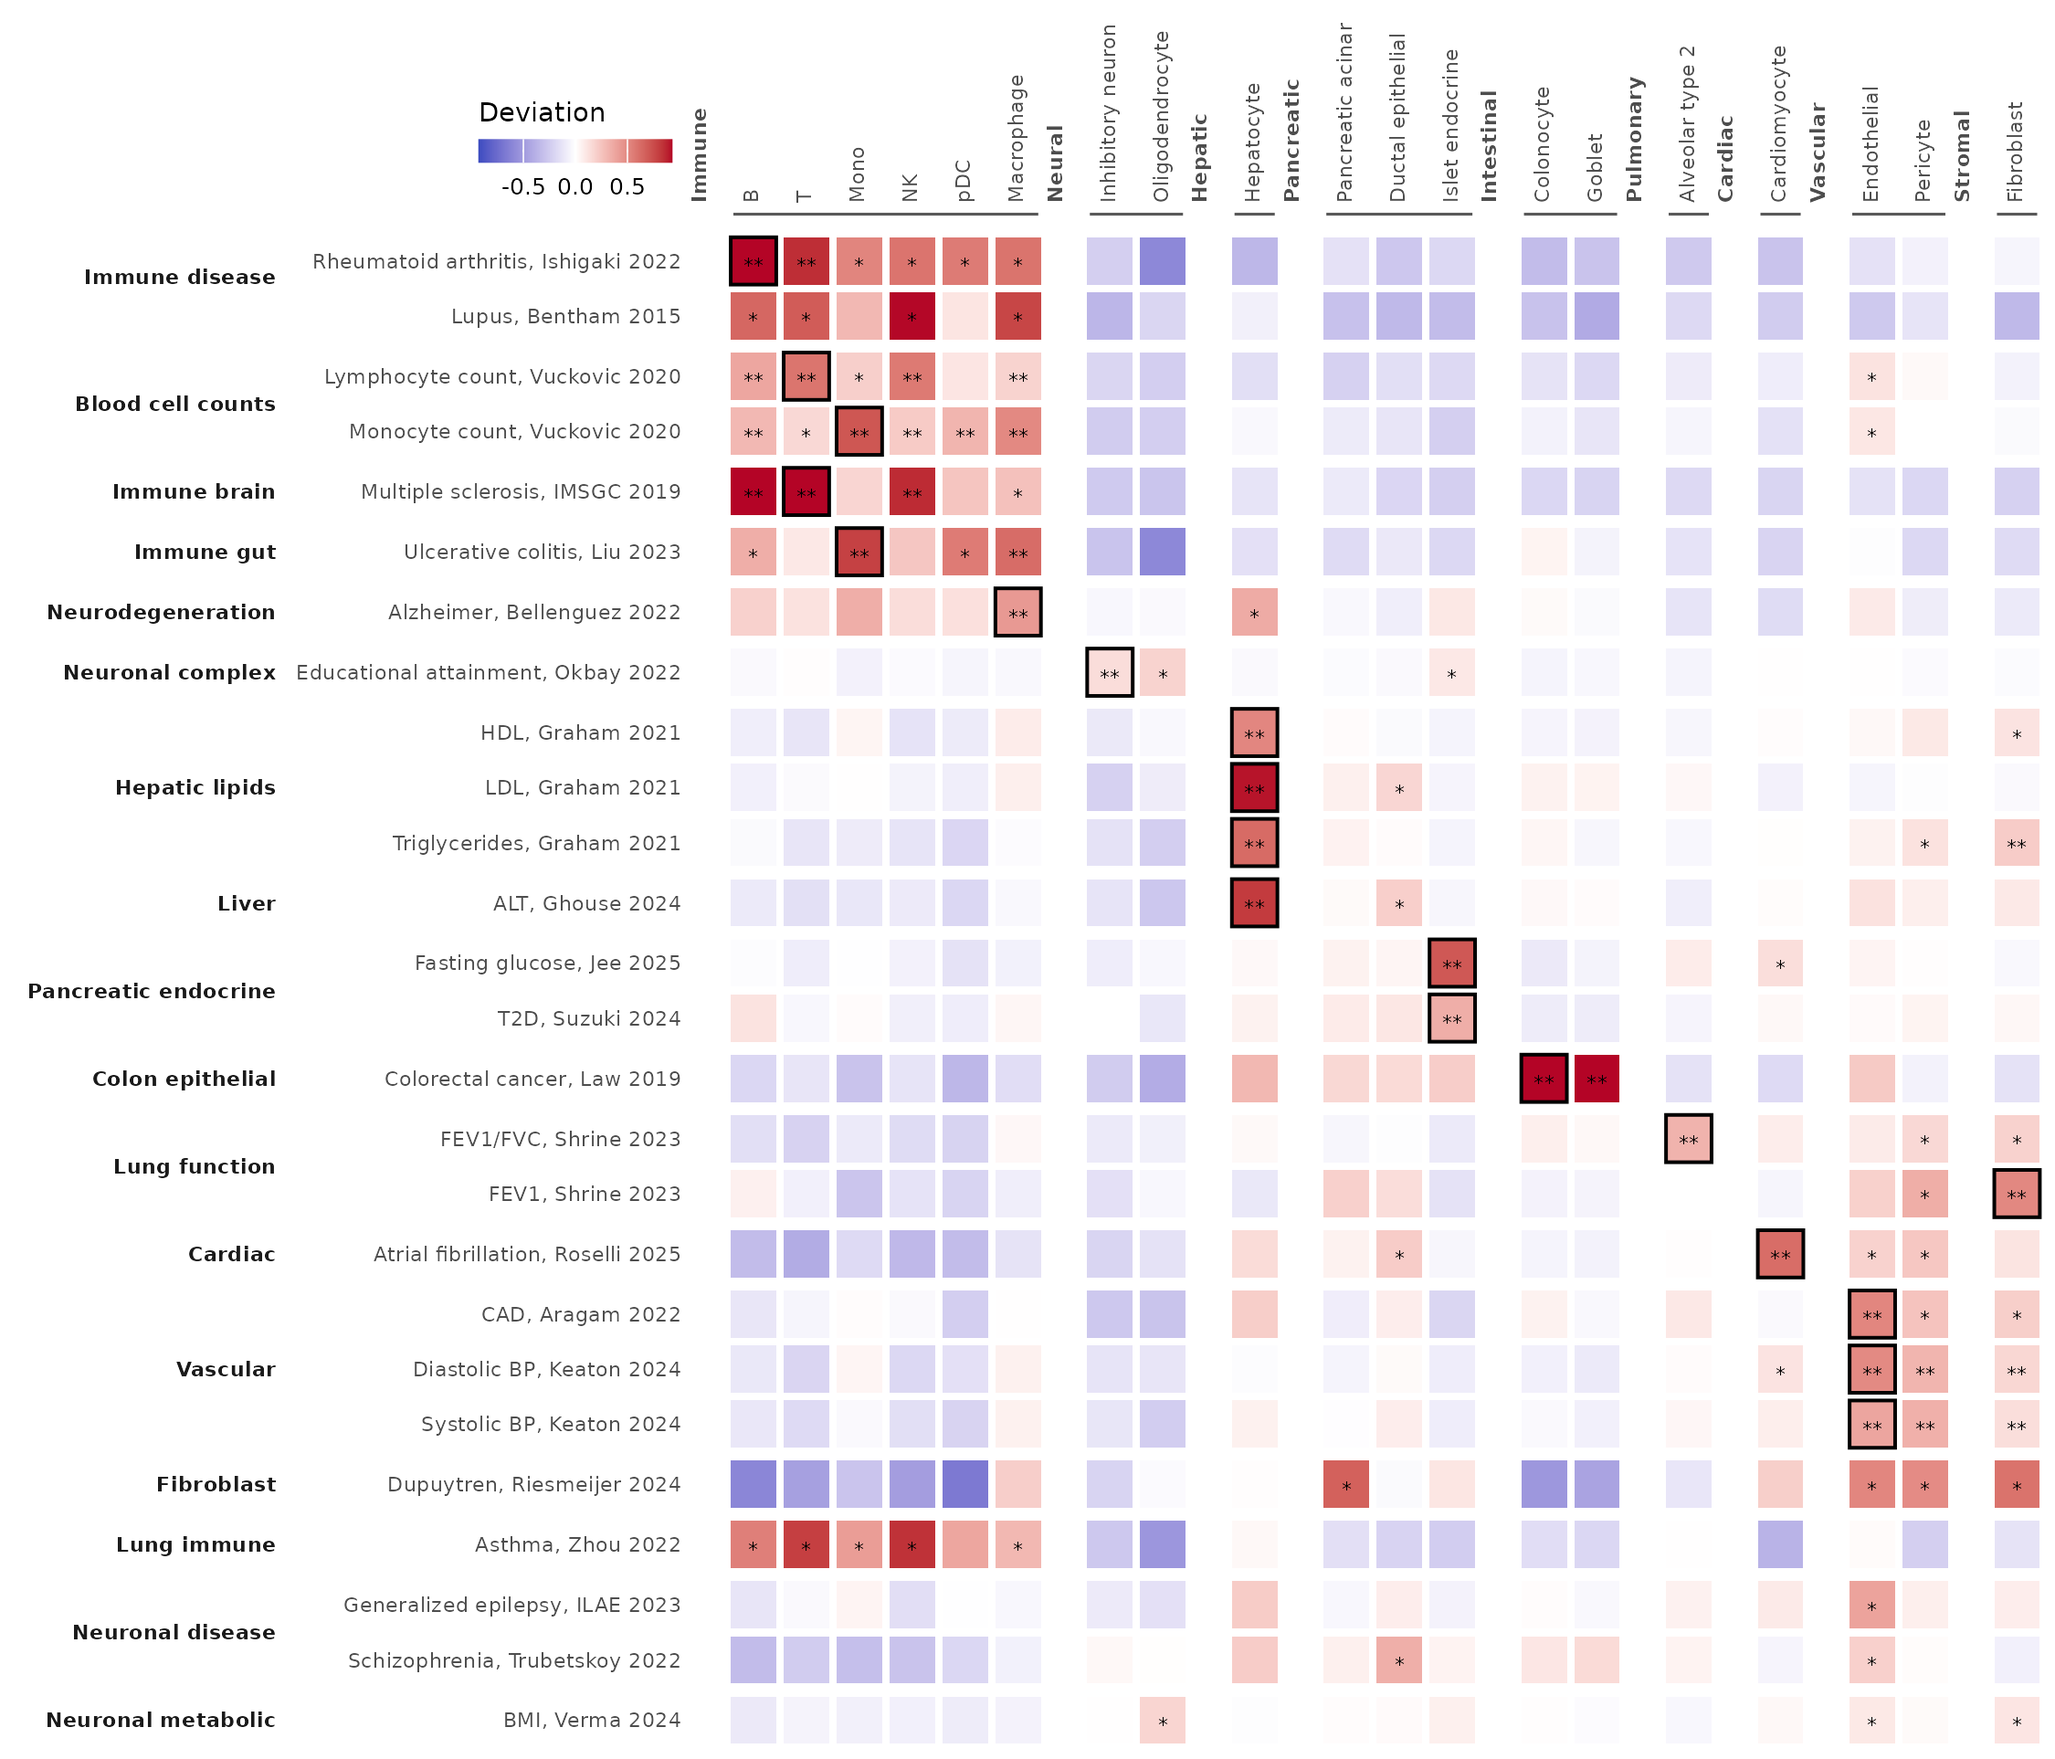
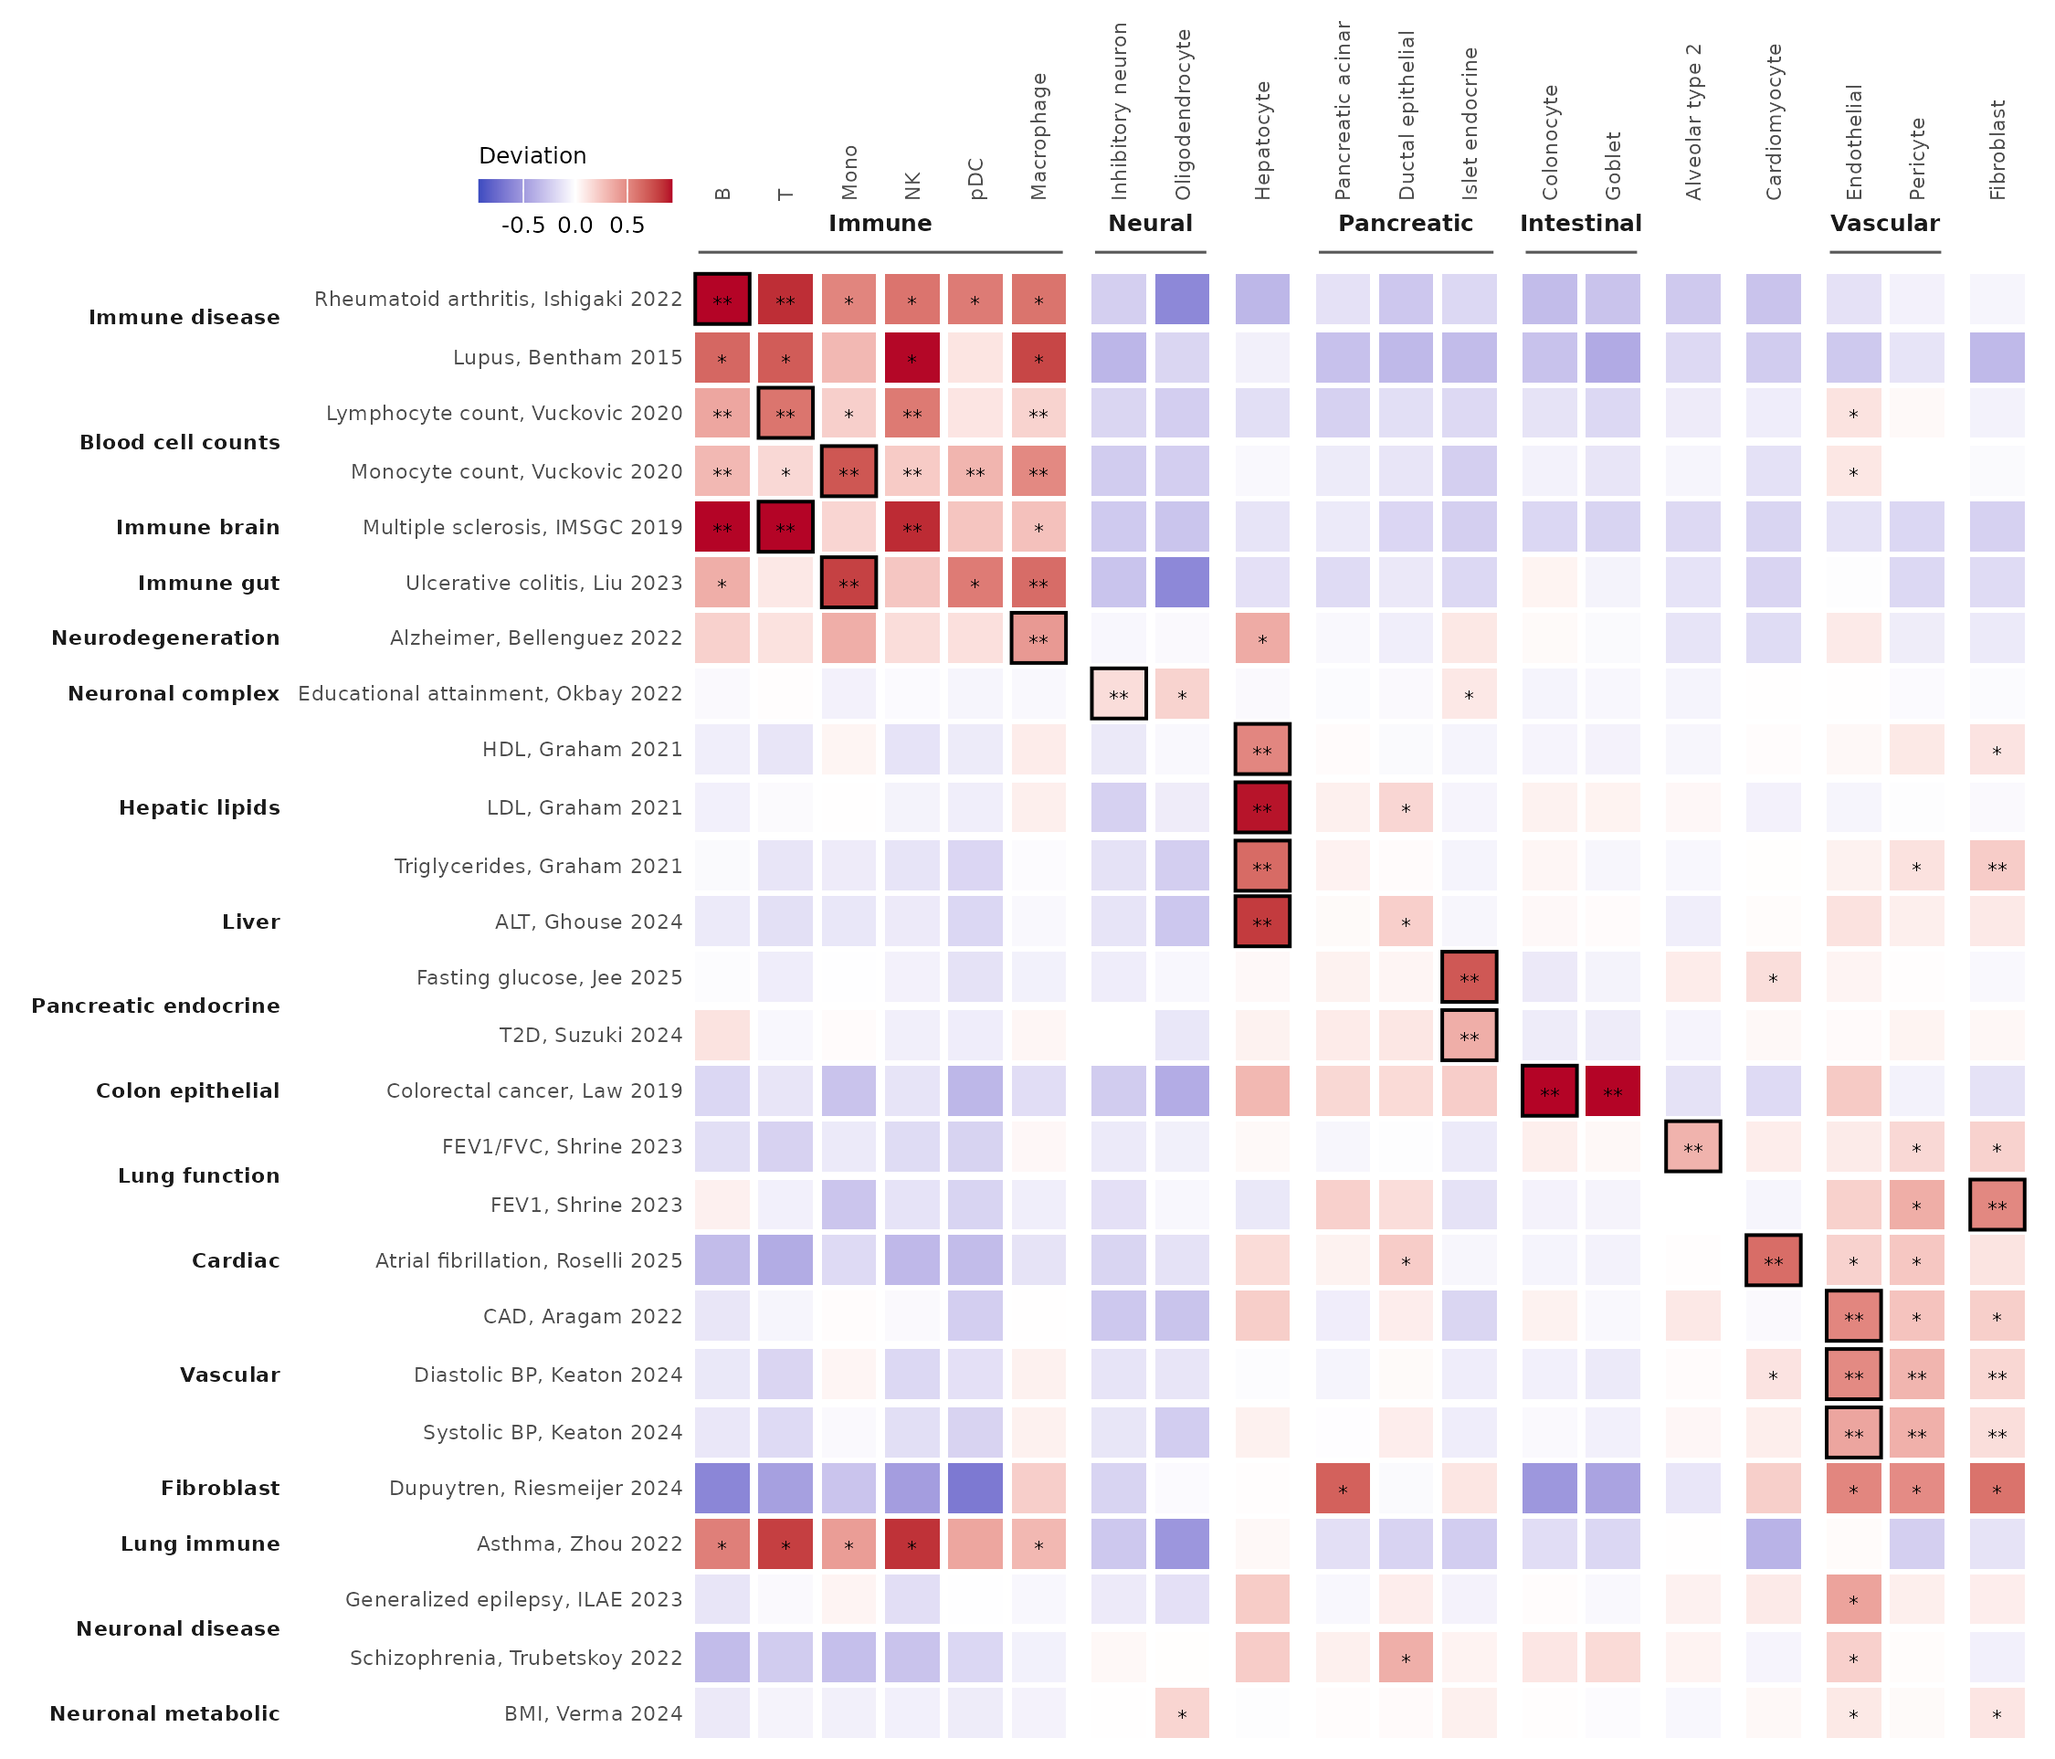
Polish Figure 1 type, labels and compartment headers
Figure 1 now uses one type scale: panel titles 10 pt beside their tags,
axis titles and subtitles 7 pt, heatmap row and column names 5.5 pt and
all other text 6 pt, which text layers take as figure_1_text_size.
- B: the cell-type labels no longer overlap one another.
- C: the two-glyph key sits in the corner above the cell-type names, so
  the rows keep their spacing.
- F, S5 and S6: each compartment of several cell types is named in bold
  above a bracket, between the tiles and the cell-type names, as in the
  insulin-resistance tau* heatmap; a one-column compartment's cell type
  names it already.
- G: the axis numbers drop trailing zeros and the y titles read
  horizontally.
- H: the UMAP drops its axis titles and its labels shrink to the
  figure's type.
The UMAP panels show the 1,000-epoch layouts of mixed_human_31x.

contained_target_breaking: figure_1_panel_UMAP.mixed_human_31x, figure_1_panel_markers.mixed_human_31x, figure_1_panel_link.mixed_human_31x, figure_1_panel_link_scatter.mixed_human_31x, figure_1_panel_heritability.mixed_human_31x, figure_1_panel_locus.mixed_human_31x, figure_1_panel_TRS.mixed_human_31x, figure_1_plot.mixed_human_31x, figure_1.mixed_human_31x, supplementary_figure_S5.mixed_human_31x, supplementary_figure_S6.mixed_human_31x

diff --git a/pipeline_manuscript_figures/README.md b/pipeline_manuscript_figures/README.md
@@ -84,7 +84,9 @@ records to those labels.
 Eight panel targets, named by content, read pipeline data, never saved pipeline
 plots; another combines them and the file target exports an 8 × 9.5 inch page
 at 300 dpi. Selections are deterministic but follow the data. Titles, tags and
-bold labels use the DejaVu Sans of Supplementary Figures S2-S4.
+bold labels use the DejaVu Sans of Supplementary Figures S2-S4, on one type
+scale: panel titles 10 pt, beside their tags; axis titles 7 pt; heatmap row and
+column names 5.5 pt; other text 6 pt.
 
 - **A:** a left-to-right diagram of multiomeR: inputs, the primary module's
   stages, the optional modules, outputs and the key ideas. Grey letters name the
@@ -114,8 +116,9 @@ bold labels use the DejaVu Sans of Supplementary Figures S2-S4.
 
 Figure 1F and Supplementary Figures S5 and S6 share one grid of studies (rows)
 and assigned cell types (columns). Cell types keep their configured order within
-compartments that the figure code defines for this aggregation, each headed by
-its bold name above a bracket. Studies are grouped by their configured trait
+compartments that the figure code defines for this aggregation. Each
+compartment of several cell types is named in bold above a bracket, between the
+tiles and the cell-type names. Studies are grouped by their configured trait
 category. Each study's anchor, its largest value at q < 0.05, is boxed, and
 studies and categories follow the column of their anchor, so the anchors step
 down and to the right; studies without one come last. Stars mark P < 0.05 (\*)
